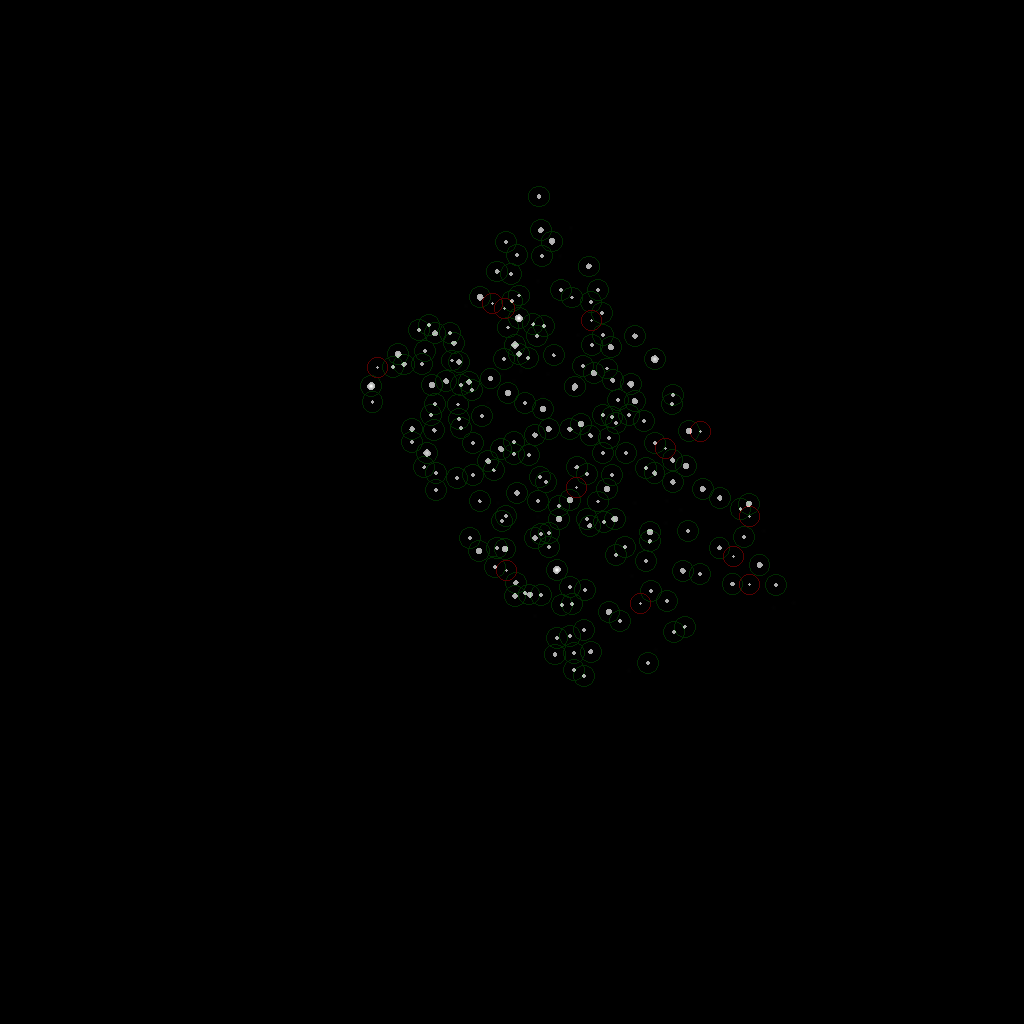
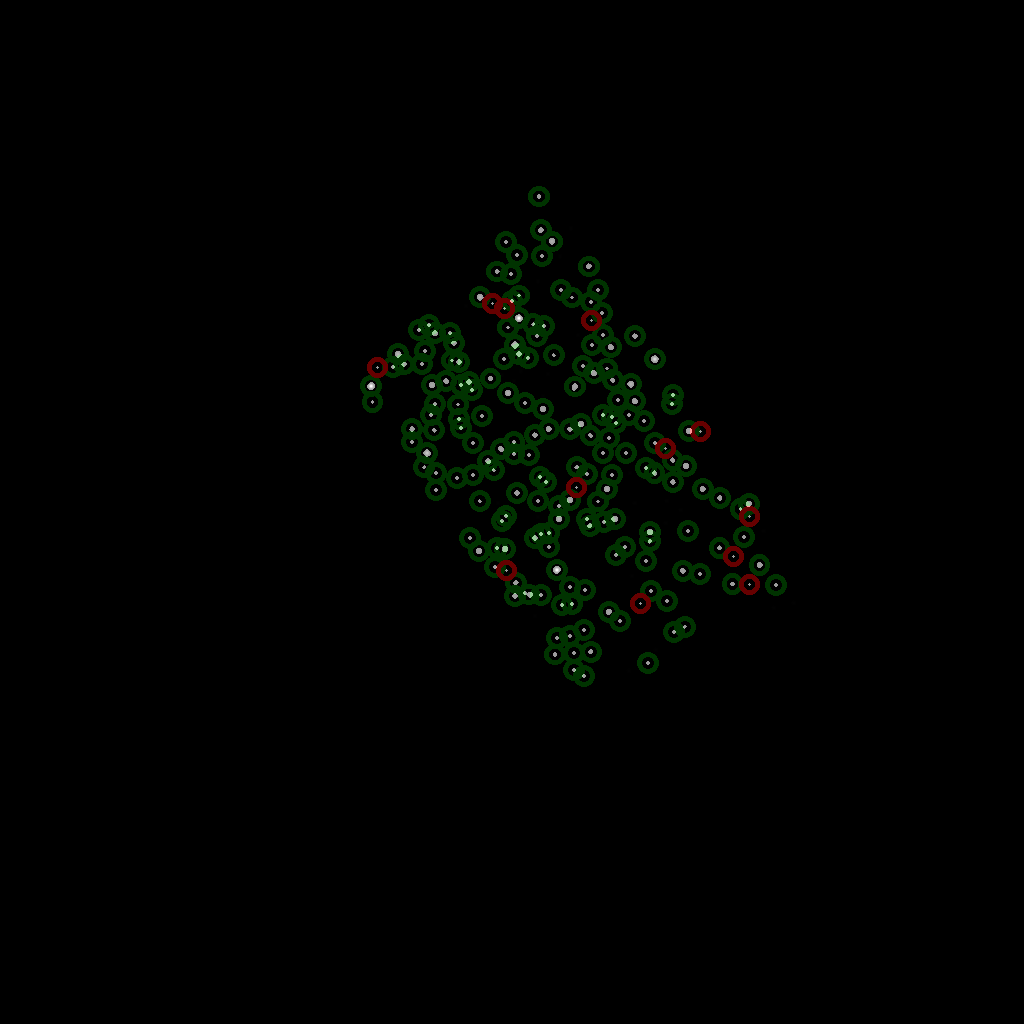
improved visibility for red/green annotation in star images

Changed region(s): [[0.3438, 0.1875, 0.7812, 0.6875]]

diff --git a/Centroiding algorithm/centroiding.py b/Centroiding algorithm/centroiding.py
@@ -292,7 +292,7 @@ def get_centroids_from_image(image, sigma=2, image_th=None, crop=None, downsampl
                 pos *= downsample
                 pos += [offs_h, offs_w]
                 size *= downsample
-            draw_circle(pos, size, outline='green')
+            draw_circle(pos, size, width=5, outline='green')
         for entry in rejected:
             pos = entry[1:3].copy()
             size = .01*width
@@ -300,7 +300,7 @@ def get_centroids_from_image(image, sigma=2, image_th=None, crop=None, downsampl
                 pos *= downsample
                 pos += [offs_h, offs_w]
                 size *= downsample
-            draw_circle(pos, size, outline='red')
+            draw_circle(pos, size,width=5, outline='red')
         images_dict['final_centroids'] = raw_image
 
     # 8. Sort
@@ -485,7 +485,7 @@ print(centroids)
 
 labelled_regions = centr_data[1]['labelled_regions']  # Extract labelled regions
 
-def overlay_spots(original_image, labelled_regions, alpha=0.8):
+def overlay_spots(original_image, labelled_regions, alpha=0.6):
   """
   Overlays the labelled_regions array on the original image, highlighting spots.
 
@@ -527,9 +527,8 @@ overlayed_image.show()
 
 # display the final image with the green/red circles given by final_centroids image
 
-
 final_centroids = centr_data[1]['final_centroids']  # Extract final_centroids
 
-final_image = overlay_spots(final_centroids, labelled_regions, alpha =2/3)
+final_image = overlay_spots(final_centroids, labelled_regions, alpha = 2/3)
 final_image.show()
 final_image.save("result.png")

diff --git a/Centroiding algorithm/centroid_run.py b/Centroiding algorithm/centroid_run.py
@@ -34,7 +34,7 @@ for filename in os.listdir(input_folder):
             potential_centroids_image.save(output_path)
 
             # Create and save the second output image (annotated image)
-            annotated_image = overlay_spots(final_centroids, labelled_regions, alpha=2/3)
+            annotated_image = overlay_spots(final_centroids, labelled_regions, alpha = 0.6)
             output_path = os.path.join(annotated_images_folder, "ann_" + filename)
             annotated_image.save(output_path)
 
